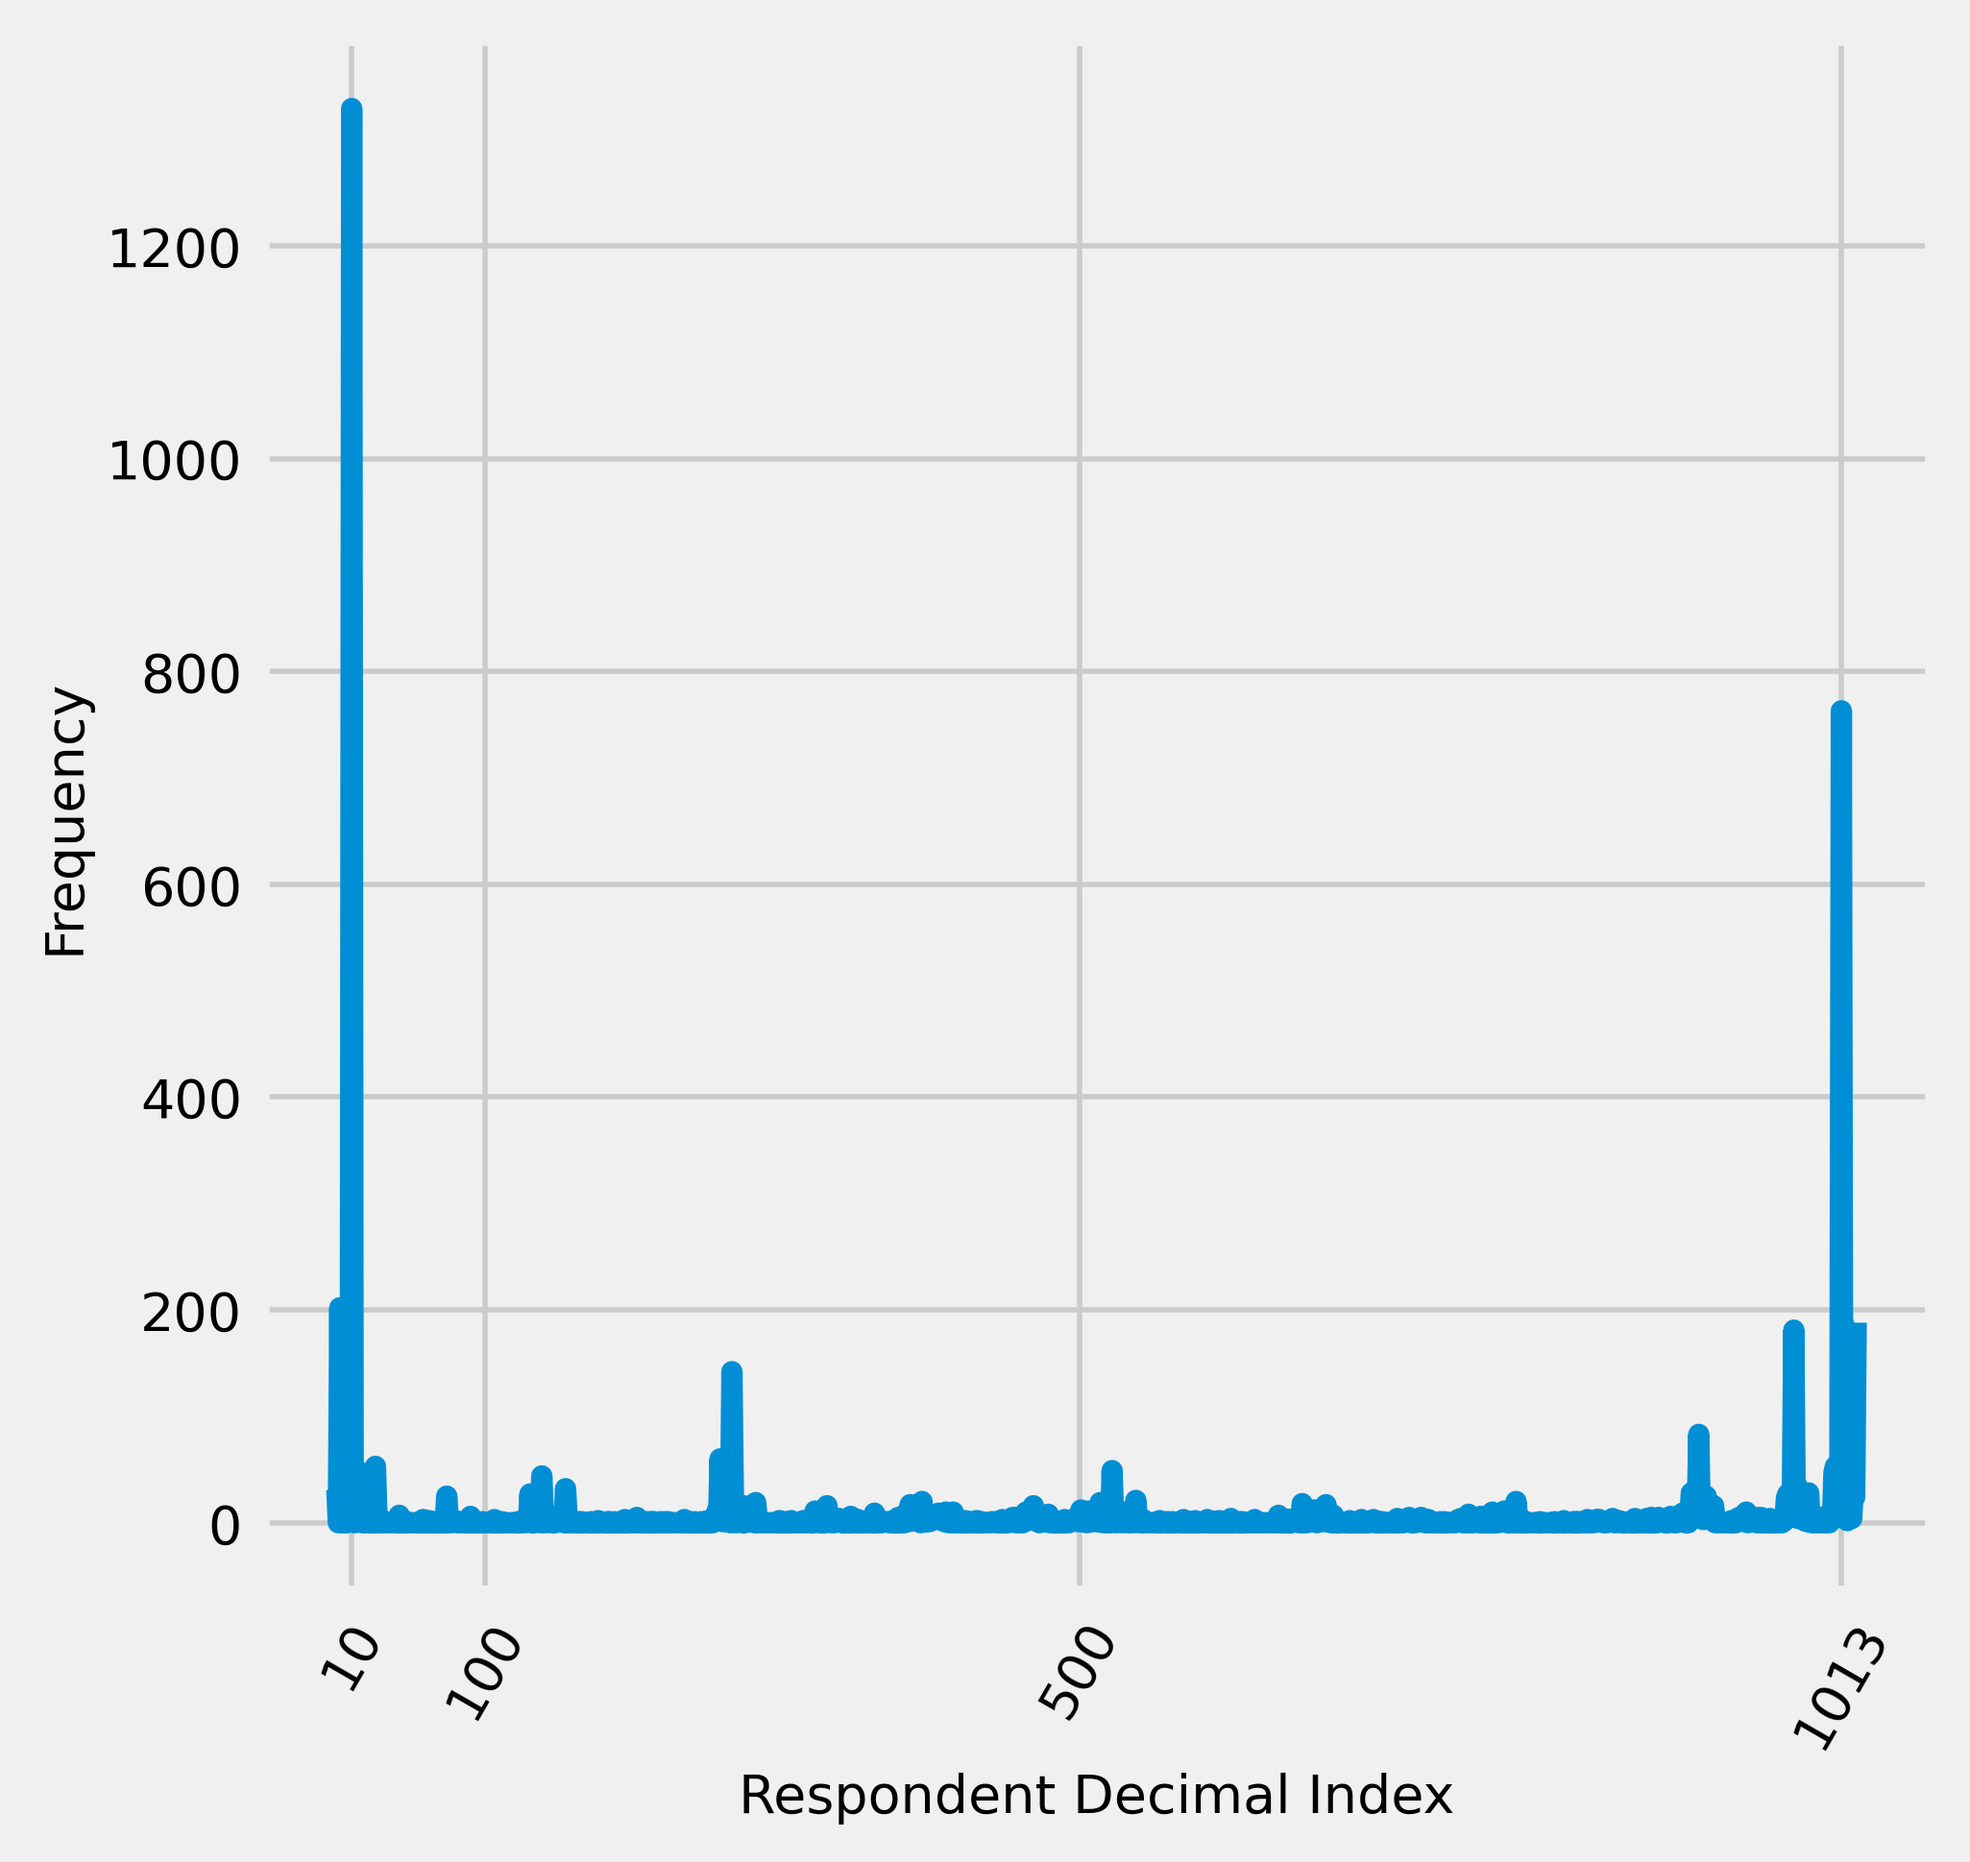
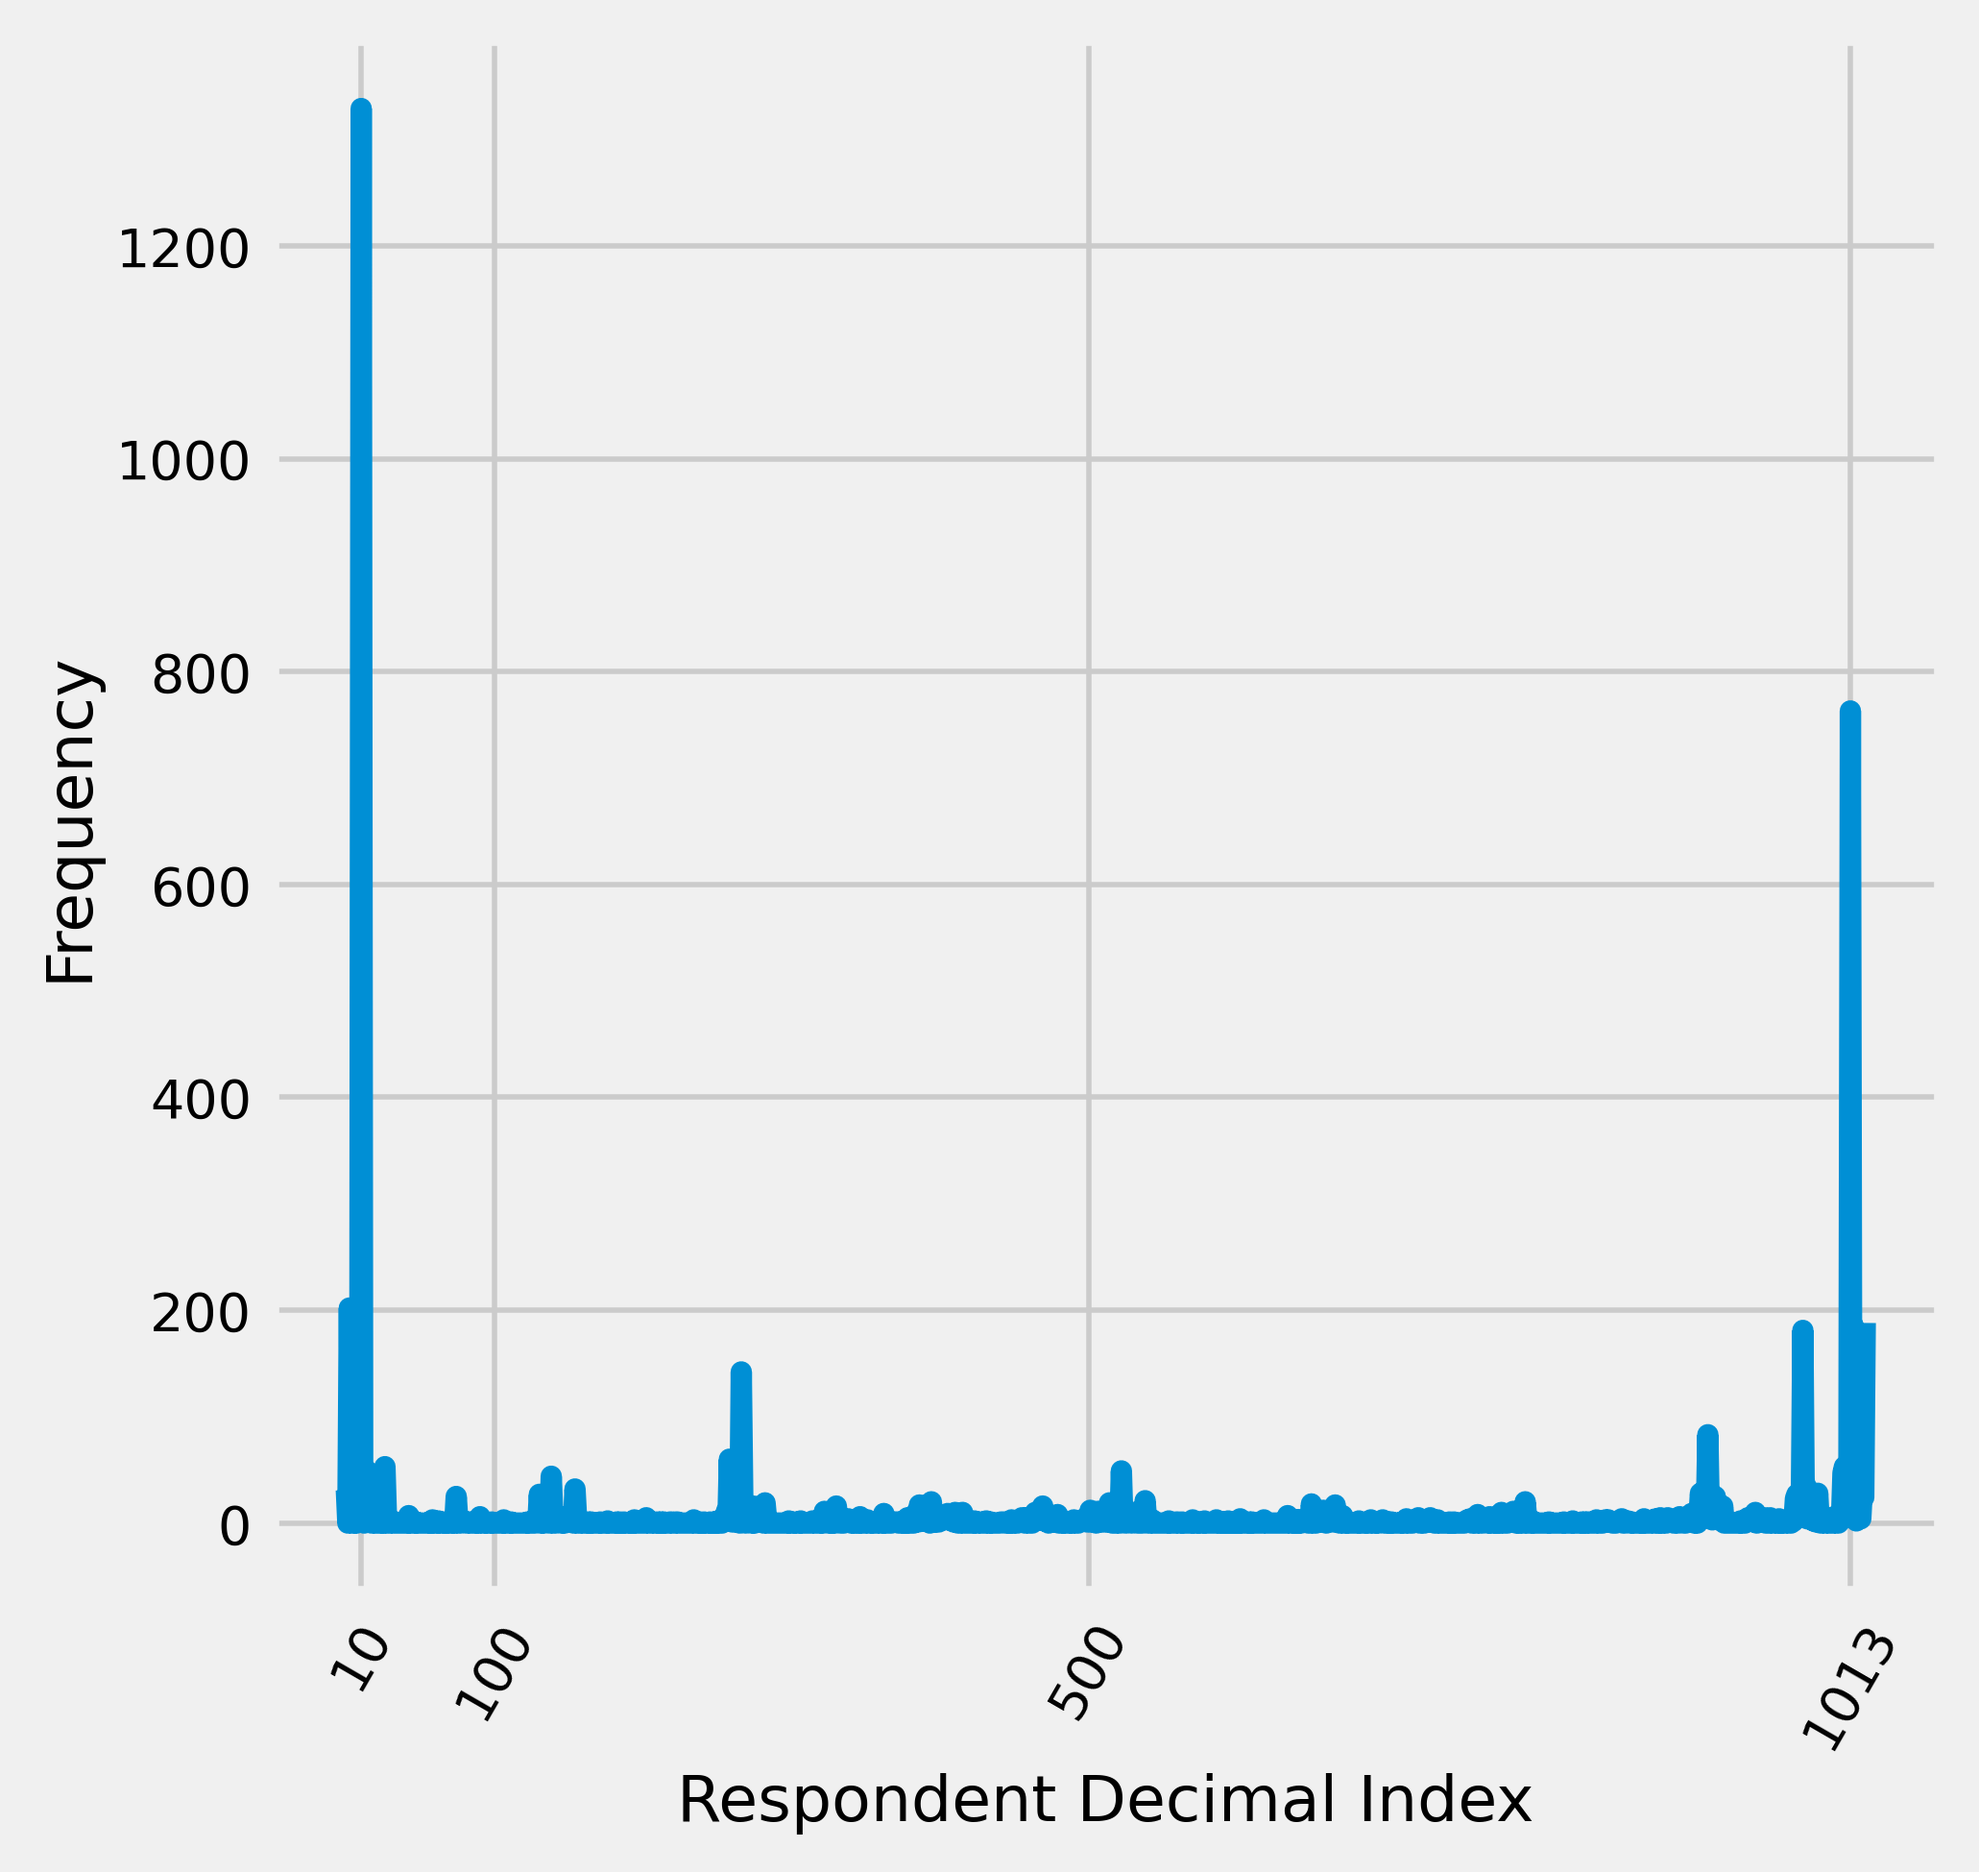
std

diff --git a/src/sims/file1.py b/src/sims/file1.py
@@ -27,8 +27,8 @@ real_dist_endstates = ibl.dist_of_endstates(real_sim_endstates)
 plt.style.use('fivethirtyeight')
 fig, axes = plt.subplots(1,1,figsize=(5,5),sharex=True,sharey=True)
 axes.plot(ibl.dist_of_endstates(real_sim_endstates))
-axes.set_ylabel('Frequency', labelpad=3,size=10)
-axes.set_xlabel('Respondent Decimal Index', labelpad=3,size=10)
+axes.set_ylabel('Frequency', labelpad=3,size=12)
+axes.set_xlabel('Respondent Decimal Index', labelpad=3,size=12)
 axes.tick_params(axis='x', labelsize=10)
 axes.tick_params(axis='y', labelsize=10)
 
